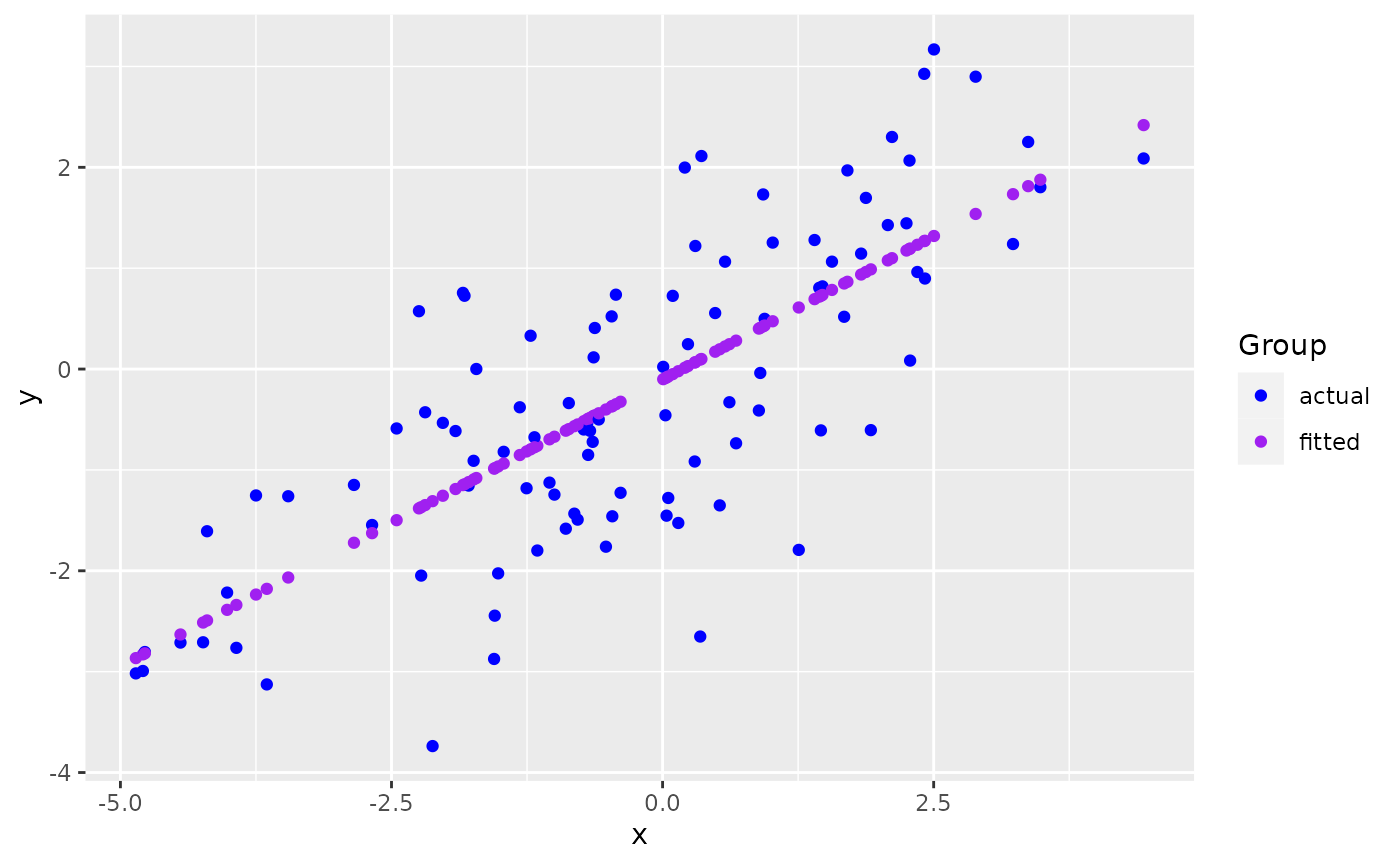
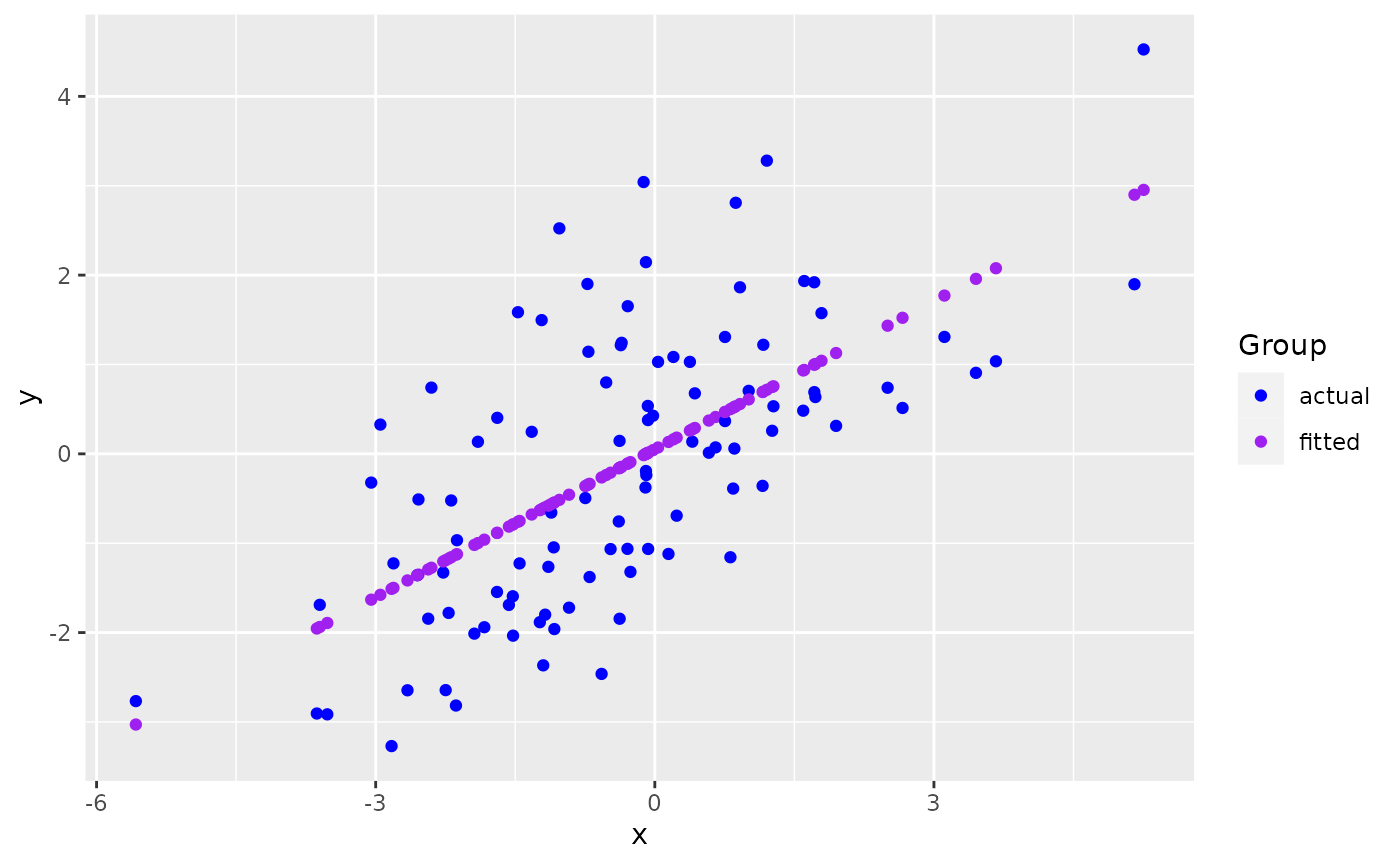
Built site for ggmatplot: 0.1.1@43a56ae

diff --git a/articles/ggmatplot.html b/articles/ggmatplot.html
@@ -103,8 +103,7 @@
 <span class="va">x</span> <span class="op">&lt;-</span> <span class="fu"><a href="https://rdrr.io/r/base/c.html" class="external-link">c</a></span><span class="op">(</span><span class="fu"><a href="https://rdrr.io/r/stats/Normal.html" class="external-link">rnorm</a></span><span class="op">(</span><span class="fl">100</span>, sd <span class="op">=</span> <span class="fl">2</span><span class="op">)</span><span class="op">)</span>
 
 <span class="fu"><a href="https://rdrr.io/r/utils/head.html" class="external-link">head</a></span><span class="op">(</span><span class="va">x</span><span class="op">)</span>
-<span class="co">#&gt; [1] -2.189577521  0.005763302  0.296386121  2.077173078  1.674480738</span>
-<span class="co">#&gt; [6]  0.347243854</span>
+<span class="co">#&gt; [1] -1.9393985 -1.6933770 -0.1005232 -5.5777789 -1.6961358  0.4027411</span>
 
 <span class="co"># matrix z</span>
 <span class="va">y</span> <span class="op">&lt;-</span> <span class="va">x</span> <span class="op">*</span> <span class="fl">0.5</span> <span class="op">+</span> <span class="fu"><a href="https://rdrr.io/r/stats/Normal.html" class="external-link">rnorm</a></span><span class="op">(</span><span class="fl">100</span>, sd <span class="op">=</span> <span class="fl">1</span><span class="op">)</span>
@@ -113,13 +112,13 @@
            fitted <span class="op">=</span> <span class="va">fit.y</span><span class="op">)</span>
 
 <span class="fu"><a href="https://rdrr.io/r/utils/head.html" class="external-link">head</a></span><span class="op">(</span><span class="va">z</span><span class="op">)</span>
-<span class="co">#&gt;        actual      fitted</span>
-<span class="co">#&gt; 1 -0.42842204 -1.34861508</span>
-<span class="co">#&gt; 2  0.02212333 -0.10039971</span>
-<span class="co">#&gt; 3 -0.91656244  0.06484109</span>
-<span class="co">#&gt; 4  1.42752541  1.07735159</span>
-<span class="co">#&gt; 5  0.51840103  0.84839089</span>
-<span class="co">#&gt; 6 -2.65185856  0.09375751</span></code></pre></div>
+<span class="co">#&gt;       actual       fitted</span>
+<span class="co">#&gt; 1 -2.0119290 -1.019364505</span>
+<span class="co">#&gt; 2  0.4030281 -0.883477565</span>
+<span class="co">#&gt; 3 -0.3765517 -0.003684742</span>
+<span class="co">#&gt; 4 -2.7668010 -3.028978321</span>
+<span class="co">#&gt; 5 -1.5454638 -0.885001362</span>
+<span class="co">#&gt; 6  0.1361314  0.274286992</span></code></pre></div>
 <p><code>ggmatplot</code> plots vector <code>x</code> against each column of matrix <code>z</code> using the default <code>plot_type = "point"</code>. This will be represented on the resulting plot as two groups, identified using different shapes and colors.</p>
 <div class="sourceCode" id="cb2"><pre class="downlit sourceCode r">
 <code class="sourceCode R"><span class="kw"><a href="https://rdrr.io/r/base/library.html" class="external-link">library</a></span><span class="op">(</span><span class="va"><a href="https://github.com/xuan-liang/ggmatplot" class="external-link">ggmatplot</a></span><span class="op">)</span>
@@ -254,7 +253,7 @@
 
 <div class="pkgdown">
   <p></p>
-<p>Site built with <a href="https://pkgdown.r-lib.org/" class="external-link">pkgdown</a> 2.0.1.</p>
+<p>Site built with <a href="https://pkgdown.r-lib.org/" class="external-link">pkgdown</a> 2.0.2.</p>
 </div>
 
       </footer>

diff --git a/reference/ggmatplot.html b/reference/ggmatplot.html
@@ -199,7 +199,7 @@ or <a href="https://ggplot2.tidyverse.org/reference/index.html#section-stats" cl
 </div>
 
 <div class="pkgdown">
-  <p></p><p>Site built with <a href="https://pkgdown.r-lib.org/" class="external-link">pkgdown</a> 2.0.1.</p>
+  <p></p><p>Site built with <a href="https://pkgdown.r-lib.org/" class="external-link">pkgdown</a> 2.0.2.</p>
 </div>
 
       </footer></div>

diff --git a/404.html b/404.html
@@ -103,7 +103,7 @@ Content not found. Please use links in the navbar.
 
 <div class="pkgdown">
   <p></p>
-<p>Site built with <a href="https://pkgdown.r-lib.org/" class="external-link">pkgdown</a> 2.0.1.</p>
+<p>Site built with <a href="https://pkgdown.r-lib.org/" class="external-link">pkgdown</a> 2.0.2.</p>
 </div>
 
       </footer>

diff --git a/LICENSE.html b/LICENSE.html
@@ -271,7 +271,7 @@
 </div>
 
 <div class="pkgdown">
-  <p></p><p>Site built with <a href="https://pkgdown.r-lib.org/" class="external-link">pkgdown</a> 2.0.1.</p>
+  <p></p><p>Site built with <a href="https://pkgdown.r-lib.org/" class="external-link">pkgdown</a> 2.0.2.</p>
 </div>
 
       </footer></div>

diff --git a/authors.html b/authors.html
@@ -106,7 +106,7 @@
 </div>
 
 <div class="pkgdown">
-  <p></p><p>Site built with <a href="https://pkgdown.r-lib.org/" class="external-link">pkgdown</a> 2.0.1.</p>
+  <p></p><p>Site built with <a href="https://pkgdown.r-lib.org/" class="external-link">pkgdown</a> 2.0.2.</p>
 </div>
 
       </footer></div>

diff --git a/articles/index.html b/articles/index.html
@@ -75,7 +75,7 @@
 </div>
 
 <div class="pkgdown">
-  <p></p><p>Site built with <a href="https://pkgdown.r-lib.org/" class="external-link">pkgdown</a> 2.0.1.</p>
+  <p></p><p>Site built with <a href="https://pkgdown.r-lib.org/" class="external-link">pkgdown</a> 2.0.2.</p>
 </div>
 
       </footer></div>

diff --git a/news/index.html b/news/index.html
@@ -81,7 +81,7 @@
 </div>
 
 <div class="pkgdown">
-  <p></p><p>Site built with <a href="https://pkgdown.r-lib.org/" class="external-link">pkgdown</a> 2.0.1.</p>
+  <p></p><p>Site built with <a href="https://pkgdown.r-lib.org/" class="external-link">pkgdown</a> 2.0.2.</p>
 </div>
 
       </footer></div>

diff --git a/reference/index.html b/reference/index.html
@@ -80,7 +80,7 @@
 </div>
 
 <div class="pkgdown">
-  <p></p><p>Site built with <a href="https://pkgdown.r-lib.org/" class="external-link">pkgdown</a> 2.0.1.</p>
+  <p></p><p>Site built with <a href="https://pkgdown.r-lib.org/" class="external-link">pkgdown</a> 2.0.2.</p>
 </div>
 
       </footer></div>

diff --git a/index.html b/index.html
@@ -337,7 +337,7 @@
 
 <div class="pkgdown">
   <p></p>
-<p>Site built with <a href="https://pkgdown.r-lib.org/" class="external-link">pkgdown</a> 2.0.1.</p>
+<p>Site built with <a href="https://pkgdown.r-lib.org/" class="external-link">pkgdown</a> 2.0.2.</p>
 </div>
 
       </footer>
